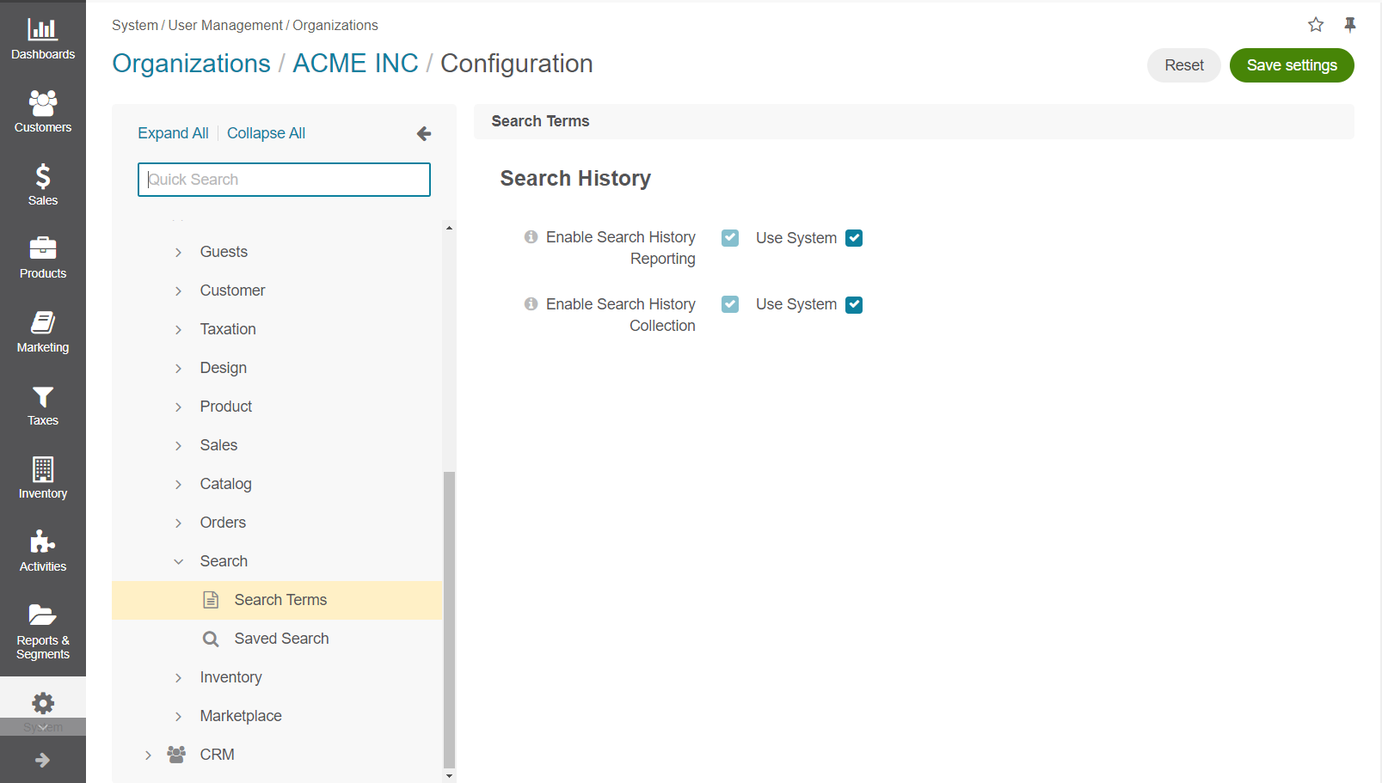
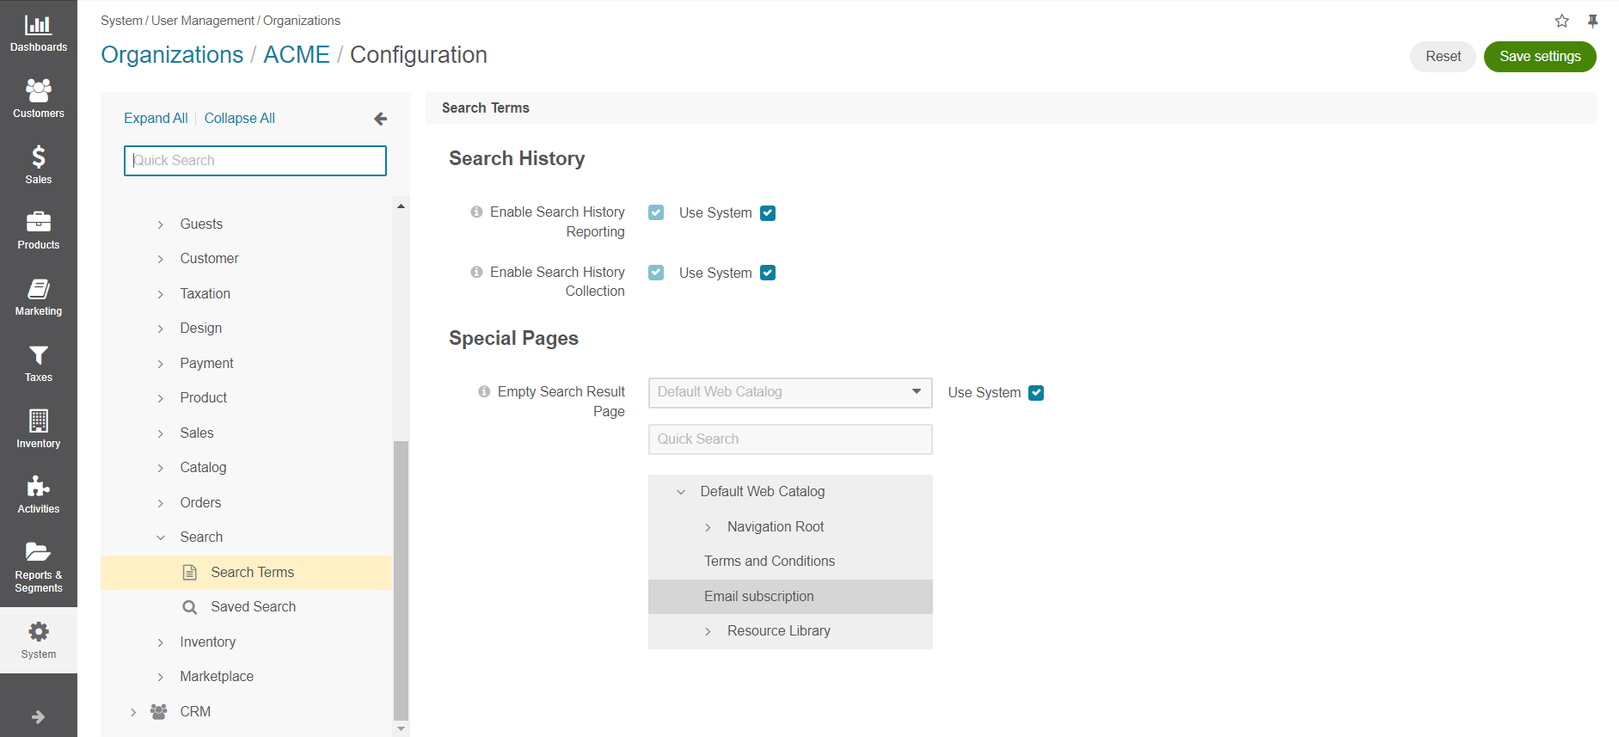
DOC-2207: Search Term Management Documentation WIP (#38496)
* DOC-2207: Search Terms Management

diff --git a/user/back-office/marketing/search/index.rst b/user/back-office/marketing/search/index.rst
@@ -1,0 +1,135 @@
+Search Management in the Back-Office
+====================================
+
+OroCommerce offers a variety of search-related features essential for optimizing your website's search functionality that you manage under **Marketing > Search** in the main menu, such as:
+
+* Search Terms
+* Search History
+* Search Synonyms
+
+.. hint:: For more information on available configuration options for search, see our :ref:`Search Functions Concept Guide <user-guide-getting-started-search>`.
+
+.. _user-guide-search-search-terms:
+
+Manage Search Terms
+-------------------
+
+OroCommerce administrators can use the search terms functionality to dynamically respond to specific search phrases with tailored actions. When a designated search term is detected, the administrator can choose from the following responses:
+
+* Automatically direct users to a predetermined page that best matches their search intent, ensuring they find the most relevant information or product.
+
+* Add custom content blocks directly into the search results page. This can include promotional banners, important announcements, or additional information that enhances the user experience.
+
+* Replace the default search results with a curated collection of products. This allows for highlighting specific products, improving product discoverability, and potentially increasing sales for targeted items.
+
+Create a Search Term
+^^^^^^^^^^^^^^^^^^^^
+
+To create a new search term:
+
+1. Navigate to **Marketing > Search > Search Terms** in the main menu and click **Create Search Term** on the top right.
+2. Provide the following information in the **General** section:
+
+   * **Owner** --- The name of the business units whose users can manage the current search term.
+   * **Phrases** --- One or more search terms for which you want to trigger a specific action.
+   * **Partial Match** --- You can choose to trigger an action based on a fragment of the phrase(s) you specified in the field above (e.g., "tag" can trigger an action for "medical tag"). Please note that this is not a fuzzy search option, and deviation in spelling will prevent the action from being triggered.
+
+3. In the **Action** section, choose what action you want to trigger for a search term in the **Action** dropdown: *Show search results page* or *Redirect to a different page*. The information to provide next will depend on the selected action.
+
+   a) For the **Show search results page** action:
+
+      * **Search Results > Product Collection**:
+
+        * *Product Collection* -- Choose a segment for the product collection.
+        * *Additional Content Block* --  Optionally, you can add a content block in addition to the product collection segment.
+
+      * **Search Results > Original Search Results**:
+
+        * *Additional Content Block* --  Optionally, you can add a content block to the search results page.
+
+   .. image:: /user/img/marketing/search/search-term-search-results.png
+
+   b) For the **Redirect to a different page** action, select what to display to users instead of the specified search term(s) in the **Target Type** dropdown:
+
+      * *Content Node* -- specify the :ref:`web catalog <user-guide--web-catalog>` from which you want to choose the content node and the :ref:`content node <user-guide--marketing--web-catalog--content-variant>` itself.
+      * *Product* -- select a specific product from the *Product* field dropdown
+      * *Category* -- select a master catalog category from the list in the *Category* field.
+      * *Landing Page* -- select a specific landing page from the *Page* field dropdown.
+      * *System Page* -- select a specific system page from the *System Page* field dropdown.
+      * *URI* -- specify a web address of the page or resource to which you want to redirect the user. This option supports URIs that include filters in the address (for example, when you use filters in the OroCommerce storefront to narrow down search results).
+
+     All target types, except URI, support the **301 Redirect** option. When enabled, this means that instead of forwarding users internally to a different page retaining the original URL, users will be redirected to a page with a new URL.
+
+   .. image:: /user/img/marketing/search/search-term-redirect.png
+
+.. note:: If the product search produces an empty result and there is no custom page configured for that specific combination of a :ref:`search term <user-guide-search-search-terms>` and additional search criteria, you can configure an *Empty Search Results Page* in the system configuration on the :ref:`global <configuration--guide--commerce--configuration--search-empty-search-results--global>`, :ref:`organization <configuration--guide--commerce--configuration--search-empty-page-results-org>` and :ref:`website <configuration--guide--commerce--configuration--search-empty-page-results-website>` levels.
+
+4. In the **Restrictions** section, specify the target localization, website, and customer or customer group to which the search term configuration should apply. Keep in mind that only one field must be chosen for customers at a time, either a customer group or a customer.
+
+   You also have the option to **Run Original Search** to check what a user sees without the search term configuration and what original search results you are substituting by adding the current search term configuration. You can view search results for each provided search term by clicking on the arrow next to the *Run Original Search* button.
+
+   To apply content to more than one localization, website, and customer group or customer, click **Add** and set up additional conditions.
+
+   .. image:: /user/img/marketing/search/search-term-original-search-check.png
+
+.. _user-guide-search-search-history:
+
+5. Click **Save** on the top right.
+
+You can view the list of all created search terms in the Search Terms :ref:`grid <user-guide-data-management-basics>`.
+
+.. image:: /user/img/marketing/search/search-terms-grid.png
+
+Manage Search History
+---------------------
+
+Search History enables users to view a history of all searches performed in the storefront if :ref:`this option is enabled in the system configuration on the global, organization, or website level <configuration--guide--commerce--configuration--search-history>`. In particular, you can view a grid of all search terms, including the search term entered by the user, the type of search result (product autocomplete, product search, or empty), the number of products found (if applicable), the date and time of the search, the website where the search was performed, the localization used when the search was performed, and the name of the customer and customer user who performed the search (if applicable).
+
+You can also :ref:`view a Search Terms report <user-guide-search-terms-report>` that displays the number of times a particular search term was used, the number of times that search term returned products, and the number of times it returned an empty result.
+
+To view the search history, navigate to **Marketing > Search > Search History** in the main menu.
+
+.. image:: /user/img/marketing/search/search-items-grid.png
+   :alt: Search history grid in the back-office
+
+Here, you have the options to preview or delete search history items. Previewing items redirects you to a page in the storefront with a collection of products that match the search criteria.
+
+.. _user-guide-search-synonyms:
+
+Create Storefront Search Synonyms
+---------------------------------
+
+.. note:: This feature is available in the OroCommerce Enterprise Edition.
+
+You can create a synonym group where a search for one word from this group in the OroCommerce storefront would return results for all the synonyms in this group. Synonym management is enabled :ref:`globally <configuration--guide--commerce--search--synonyms>` and :ref:`per website <configuration--website-commerce--search--synonyms>` in the system configuration, and subsequently managed through **Marketing > Search > Search Synonyms** in the main menu.
+
+Create a Synonym Group
+^^^^^^^^^^^^^^^^^^^^^^
+
+To create a new synonym group:
+
+1. Navigate to **Marketing > Search > Search Synonyms** in the main menu.
+2. Click **Create Search Synonym**.
+3. Fill in the following details:
+
+   * **Owner** --- the owner of the synonym being created. This field is only displayed in the global organization.
+   * **Websites** --- a list of websites where the synonym is to be used. Hold ctrl to select more than one website.
+   * **Synonyms** --- a list of comma-separated synonyms, for example, good, excellent. Arrow notation can be used to define unidirectional synonyms: excellent => good.
+
+4. Click **Save**.
+
+.. image:: /user/img/marketing/search/synonym-search-back-office-storefront-example.png
+   :alt: Illustration of how search synonyms configured in the back-office work in the storefront
+
+You can view the list of all created search synonyms in the Search Synonym :ref:`grid <user-guide-data-management-basics>`.
+
+**Related Content**:
+
+* :ref:`Enable Search Synonyms Globally <configuration--guide--commerce--search--synonyms>`
+* :ref:`Enable Search Synonyms per Website <configuration--website-commerce--search--synonyms>`
+* :ref:`Synonym Management (Dev Guide) <bundle-docs-commerce-website-elasticsearch-bundle-synonyms>`
+* :ref:`Search (Terms) Report <user-guide-search-terms-report>`
+* :ref:`Configure Search History Settings <configuration--guide--commerce--configuration--search-history>`
+* :ref:`Configure the Empty Search Results Page <configuration--guide--commerce--configuration--search-empty-search-results--global>`
+
+

diff --git a/user/back-office/system/user-management/organizations/org-configuration/commerce/search/org-search-terms.rst b/user/back-office/system/user-management/organizations/org-configuration/commerce/search/org-search-terms.rst
@@ -1,13 +1,14 @@
 .. _organization-commerce--configuration--search-history:
+.. _configuration--guide--commerce--configuration--search-empty-page-results-org:
 
-Configure Search History Settings per Organization
-==================================================
+Configure Search Terms Settings per Organization
+================================================
 
 .. hint:: Read :ref:`Search Functions Concept Guide <user-guide-getting-started-search>` to get a general understanding of the search functionality in OroCommerce.
 
-.. note:: You can configure search history :ref:`globally <configuration--guide--commerce--configuration--search-history>`,per organization, :ref:`website <configuration--website-commerce--search--history>`, :ref:`customer group <user-guide--customer-groups--configuration--settings--search>`, or :ref:`customer <user-guide--customers--search--settings>`.
+.. note:: You can configure search history :ref:`globally <configuration--guide--commerce--configuration--search-history>`, per organization, :ref:`website <configuration--website-commerce--search--history>`, :ref:`customer group <user-guide--customer-groups--configuration--settings--search>`, or :ref:`customer <user-guide--customers--search--settings>`, and empty search results page :ref:`globally <configuration--guide--commerce--configuration--search-empty-search-results--global>`, per organization, and :ref:`website <configuration--guide--commerce--configuration--search-empty-page-results-website>`.
 
-To configure the search history settings per organization:
+To configure the search related settings per organization:
 
 1. Navigate to **System > User Management > Organizations** in the main menu.
 2. For the necessary organization, hover over the |IcMore| **More Options** menu to the right of the necessary organization and click |IcConfig| to start editing the configuration.
@@ -18,13 +19,17 @@ To configure the search history settings per organization:
 .. image:: /user/img/system/user_management/org_configuration/search/org-search-terms.png
    :alt: Search history configuration options per organization
 
-4. You can enable or disable the following options (clear the **Use System** checkbox to customize the settings):
+4. In the **Search History** section, clear the *Use System* check box to configure the following search history reporting options:
 
    * **Enable Search History Reporting** --- enables the :ref:`Search History feature <user-guide-search-search-history>` globally to track your customers’ search activity in the storefront. The option also enables the :ref:`a Search Terms report <user-guide-search-terms-report>` that collects statistics on how many times a particular search term was used, the number of times that search term returned products, and the number of times it returned an empty result. When Enable Search History Reporting is disabled, the feature is removed from the main menu and grids, along with the Search Terms report.
 
-   * **Enable Search History Collection** - depends on the Enable Search History Reporting option above. When Enable Search History Collection is enabled, all search queries are logged into the database. This option allows enabling/disabling certain groups of visitors. For example, you can choose not to log requests from anonymous users by turning off this option at customer group level for Anonymous customers. Exercise care when enabling this option on popular websites as it may result in a large number of records saved to the database.
+   * **Enable Search History Collection** --- depends on the Enable Search History Reporting option above. When Enable Search History Collection is enabled, all search queries are logged into the database. This option allows enabling/disabling certain groups of visitors. For example, you can choose not to log requests from anonymous users by turning off this option at customer group level for Anonymous customers. Exercise care when enabling this option on popular websites as it may result in a large number of records saved to the database.
 
-5. Click **Save Settings**.
+5. In the **Special Pages** section, clear the *Use System* check box to configure the empty search results page:
+
+   * **Empty Search Result Page** --- You can configure an Empty Search Results Page, if the product search produced an empty result and there is no custom page configured for that specific combination of a :ref:`search term <user-guide-search-search-terms>` and additional search criteria. The web-node selected for this configuration option should be available for all users and cannot have restrictions.
+
+6. Click **Save Settings**.
 
 
 **Related Topics**

diff --git a/user/back-office/system/websites/web-configuration/commerce/search/website-search-terms.rst b/user/back-office/system/websites/web-configuration/commerce/search/website-search-terms.rst
@@ -1,12 +1,13 @@
 .. _configuration--website-commerce--search--history:
+.. _configuration--guide--commerce--configuration--search-empty-page-results-website:
 
-Configure Search History Settings per Website
-=============================================
+Configure Search Terms Settings per Website
+===========================================
 
 .. hint:: Read :ref:`Search Functions Concept Guide <user-guide-getting-started-search>` to get a general understanding of the search functionality in OroCommerce.
 
 
-.. note:: You can configure search history :ref:`globally <configuration--guide--commerce--configuration--search-history>`,:ref:`per organization <organization-commerce--configuration--search-history>`, :ref:`customer group <user-guide--customer-groups--configuration--settings--search>`, or :ref:`customer <user-guide--customers--search--settings>`.
+.. note:: You can configure search history :ref:`globally <configuration--guide--commerce--configuration--search-history>`, :ref:`per organization <organization-commerce--configuration--search-history>`, :ref:`customer group <user-guide--customer-groups--configuration--settings--search>`, or :ref:`customer <user-guide--customers--search--settings>`, and empty search results page :ref:`globally <configuration--guide--commerce--configuration--search-empty-search-results--global>`, :ref:`per organization <configuration--guide--commerce--configuration--search-empty-page-results-org>`, and website.
 
 To configure the search history settings per website:
 
@@ -16,14 +17,20 @@ To configure the search history settings per website:
 
 .. note:: For faster navigation between the configuration menu sections, use :ref:`Quick Search <user-guide--system-configuration--quick-search>`.
 
-.. image:: /user/img/system/user_management/org_configuration/search/org-search-terms.png
+.. image:: /user/img/system/websites/web_configuration/web-search-terms.png
    :alt: Search history configuration options per website
 
-4. You can enable or disable the following option (clear the **Use Organization** checkbox to customize the settings):
+4. In the **Search History** section, clear the *Use Organization* check box to configure the following search history reporting options:
 
-   * **Enable Search History Collection** - depends on the :ref:`Enable Search History Reporting <configuration--guide--commerce--configuration--search-history>` option. When Enable Search History Collection is enabled, all search queries are logged into the database. This option allows enabling/disabling certain groups of visitors. For example, you can choose not to log requests from anonymous users by turning off this option at customer group level for Anonymous customers. Exercise care when enabling this option on popular websites as it may result in a large number of records saved to the database.
+   * **Enable Search History Reporting** --- enables the :ref:`Search History feature <user-guide-search-search-history>` globally to track your customers’ search activity in the storefront. The option also enables the :ref:`a Search Terms report <user-guide-search-terms-report>` that collects statistics on how many times a particular search term was used, the number of times that search term returned products, and the number of times it returned an empty result. When Enable Search History Reporting is disabled, the feature is removed from the main menu and grids, along with the Search Terms report.
 
-5. Click **Save Settings**.
+   * **Enable Search History Collection** --- depends on the Enable Search History Reporting option above. When Enable Search History Collection is enabled, all search queries are logged into the database. This option allows enabling/disabling certain groups of visitors. For example, you can choose not to log requests from anonymous users by turning off this option at customer group level for Anonymous customers. Exercise care when enabling this option on popular websites as it may result in a large number of records saved to the database.
+
+5. In the **Special Pages** section, clear the *Use Organization* check box to configure the empty search results page:
+
+   * **Empty Search Result Page** --- You can configure an Empty Search Results Page, if the product search produced an empty result and there is no custom page configured for that specific combination of a :ref:`search term <user-guide-search-search-terms>` and additional search criteria. The web-node selected for this configuration option should be available for all users and cannot have restrictions.
+
+6. Click **Save Settings**.
 
 
 **Related Topics**

diff --git a/user/back-office/system/configuration/commerce/search/search-terms.rst b/user/back-office/system/configuration/commerce/search/search-terms.rst
@@ -1,12 +1,12 @@
 .. _configuration--guide--commerce--configuration--search-history:
+.. _configuration--guide--commerce--configuration--search-empty-search-results--global:
 
-Configure Global Search History Settings
-========================================
+Configure Global Search Terms Settings
+======================================
 
 .. hint:: Read :ref:`Search Functions Concept Guide <user-guide-getting-started-search>` to get a general understanding of the search functionality in OroCommerce.
 
-
-.. note:: You can configure search history globally, :ref:`per organization <organization-commerce--configuration--search-history>`, :ref:`website <configuration--website-commerce--search--history>`, :ref:`customer group <user-guide--customer-groups--configuration--settings--search>`, or :ref:`customer <user-guide--customers--search--settings>`.
+.. note:: You can configure search history globally, :ref:`per organization <organization-commerce--configuration--search-history>`, :ref:`website <configuration--website-commerce--search--history>`, :ref:`customer group <user-guide--customer-groups--configuration--settings--search>`, or :ref:`customer <user-guide--customers--search--settings>`, and empty search results page globally, :ref:`per organization <configuration--guide--commerce--configuration--search-empty-page-results-org>`, and :ref:`website <configuration--guide--commerce--configuration--search-empty-page-results-website>`.
 
 To configure the search history settings globally:
 
@@ -18,13 +18,17 @@ To configure the search history settings globally:
 .. image:: /user/img/system/config_commerce/search/global-search-history-settings.png
    :alt: Global search history configuration options
 
-3. Configure the following options:
+3. In the **Search History** section, clear the *Use Default* check box to configure the following search history reporting options:
 
    * **Enable Search History Reporting** --- enables the :ref:`Search History feature <user-guide-search-search-history>` globally to track your customers’ search activity in the storefront. The option also enables the :ref:`a Search Terms report <user-guide-search-terms-report>` that collects statistics on how many times a particular search term was used, the number of times that search term returned products, and the number of times it returned an empty result. When Enable Search History Reporting is disabled, the feature is removed from the main menu and grids, along with the Search Terms report.
 
-   * **Enable Search History Collection** - depends on the Enable Search History Reporting option above. When Enable Search History Collection is enabled, all search queries are logged into the database. This option allows enabling/disabling certain groups of visitors. For example, you can choose not to log requests from anonymous users by turning off this option at customer group level for Anonymous customers. Exercise care when enabling this option on popular websites as it may result in a large number of records saved to the database.
+   * **Enable Search History Collection** --- depends on the Enable Search History Reporting option above. When Enable Search History Collection is enabled, all search queries are logged into the database. This option allows enabling/disabling certain groups of visitors. For example, you can choose not to log requests from anonymous users by turning off this option at customer group level for Anonymous customers. Exercise care when enabling this option on popular websites as it may result in a large number of records saved to the database.
 
-4. Click **Save Settings**.
+4. In the **Special Pages** section, clear the *Use Default* check box to configure the empty search results page:
+
+   * **Empty Search Result Page** --- You can configure an Empty Search Results Page, if the product search produced an empty result and there is no custom page configured for that specific combination of a :ref:`search term <user-guide-search-search-terms>` and additional search criteria. The web-node selected for this configuration option should be available for all users and cannot have restrictions.
+
+5. Click **Save Settings**.
 
 
 **Related Topics**

diff --git a/user/back-office/getting-started/information-management/index.rst b/user/back-office/getting-started/information-management/index.rst
@@ -14,7 +14,7 @@ Creating new records in the Oro applications follows the same pattern. However, 
 
 You can edit or delete most of the records and perform some type-specific actions to selected records either from their pages or from the pages with the list of all records (displayed in tables). An example of type-specific actions is the ability to convert a lead into an opportunity from the lead page or add an address on a contact's page.
 
-On the :ref:`page of all records (table views) <doc-grids>`, additional actions are usually available as buttons on the top right (also record-specific) or under the ellipsis, or more actions, menu located at the end of the row of each specific record. Within the page of all records, you can usually |IcFilter| :ref:`filter <doc-grids-actions-filters>` and |IcDelete| :ref:`mass delete <doc-grids-actions-records-delete-multiple>` items in the table, |IcSettings| :ref:`manage table columns <doc-grids-actions-change-table>`, |IcPencil| :ref:`edit items inline <doc-grids-actions-records-edit-inline>`, or :ref:`tag <admin-guide-tag-management>` them, so look out for the corresponding icons on the interface. You can find more information on how to work with table views in the :ref:`Record Tables <doc-grids>` topic.
+On the :ref:`page of all records (table views, also called grids) <doc-grids>`, additional actions are usually available as buttons on the top right (also record-specific) or under the ellipsis, or more actions, menu located at the end of the row of each specific record. Within the page of all records, you can usually |IcFilter| :ref:`filter <doc-grids-actions-filters>` and |IcDelete| :ref:`mass delete <doc-grids-actions-records-delete-multiple>` items in the table, |IcSettings| :ref:`manage table columns <doc-grids-actions-change-table>`, |IcPencil| :ref:`edit items inline <doc-grids-actions-records-edit-inline>`, or :ref:`tag <admin-guide-tag-management>` them, so look out for the corresponding icons on the interface. You can find more information on how to work with table views in the :ref:`Record Tables <doc-grids>` topic.
 
 Exchange and transfer of data into the Oro application from various third-party applications (and vice versa) is usually achieved either with the help of :ref:`import <import-records>`/:ref:`export <export-records>` or :ref:`integrations <user-guide-integrations>`. As an illustration, you can look at how :ref:`import works for leads <user-guide-system-channel-entities-leads>`, and how an :ref:`integration <user-guide-dotmailer-overview>` between Oro application and Dotdigital is configured.
 

diff --git a/user/back-office/system/configuration/commerce/catalog/index.rst b/user/back-office/system/configuration/commerce/catalog/index.rst
@@ -8,7 +8,6 @@ Learn how to configure price lists, price selection strategies and pricing round
 * :ref:`Pricing <sys--config--commerce--catalog--pricing>`
 * :ref:`Related Items <sys--commerce--catalog--relate-products--main>`
 * :ref:`Filters and Sorters <configuration--guide--commerce--configuration--catalog--filters-sorters>`
-* :ref:`Special Pages <sys--conf--commerce--catalog--special-pages--global>`
 
 .. toctree::
    :titlesonly:

diff --git a/user/concept-guides/catalog-promotions/search/index.rst b/user/concept-guides/catalog-promotions/search/index.rst
@@ -1,7 +1,7 @@
 .. _user-guide-getting-started-search:
 
-Search Functions
-================
+Search Functions Concept Guide
+==============================
 
 A search function on your website provides a seamless experience for your visitors. Giving customers the ability to find the information they are looking for quickly is a key ingredient for creating a user-friendly website.
 

diff --git a/user/back-office/marketing/index.rst b/user/back-office/marketing/index.rst
@@ -72,6 +72,5 @@ After the integration is configured, you can :ref:`Send Email Campaign via Mailc
    Customer Login Pages <customer-login-pages/index>
    Content Widgets <content-widgets/index>
    Digital Assets <digital-assets/index>
-   Search Synonyms <synonyms/index>
-   Search Terms <search-history/index>
+   Search <search/index>
 

diff --git a/user/back-office/system/websites/web-configuration/commerce/catalog/index.rst b/user/back-office/system/websites/web-configuration/commerce/catalog/index.rst
@@ -12,4 +12,3 @@ Configure Catalog Settings per Website
 
 
 
-
